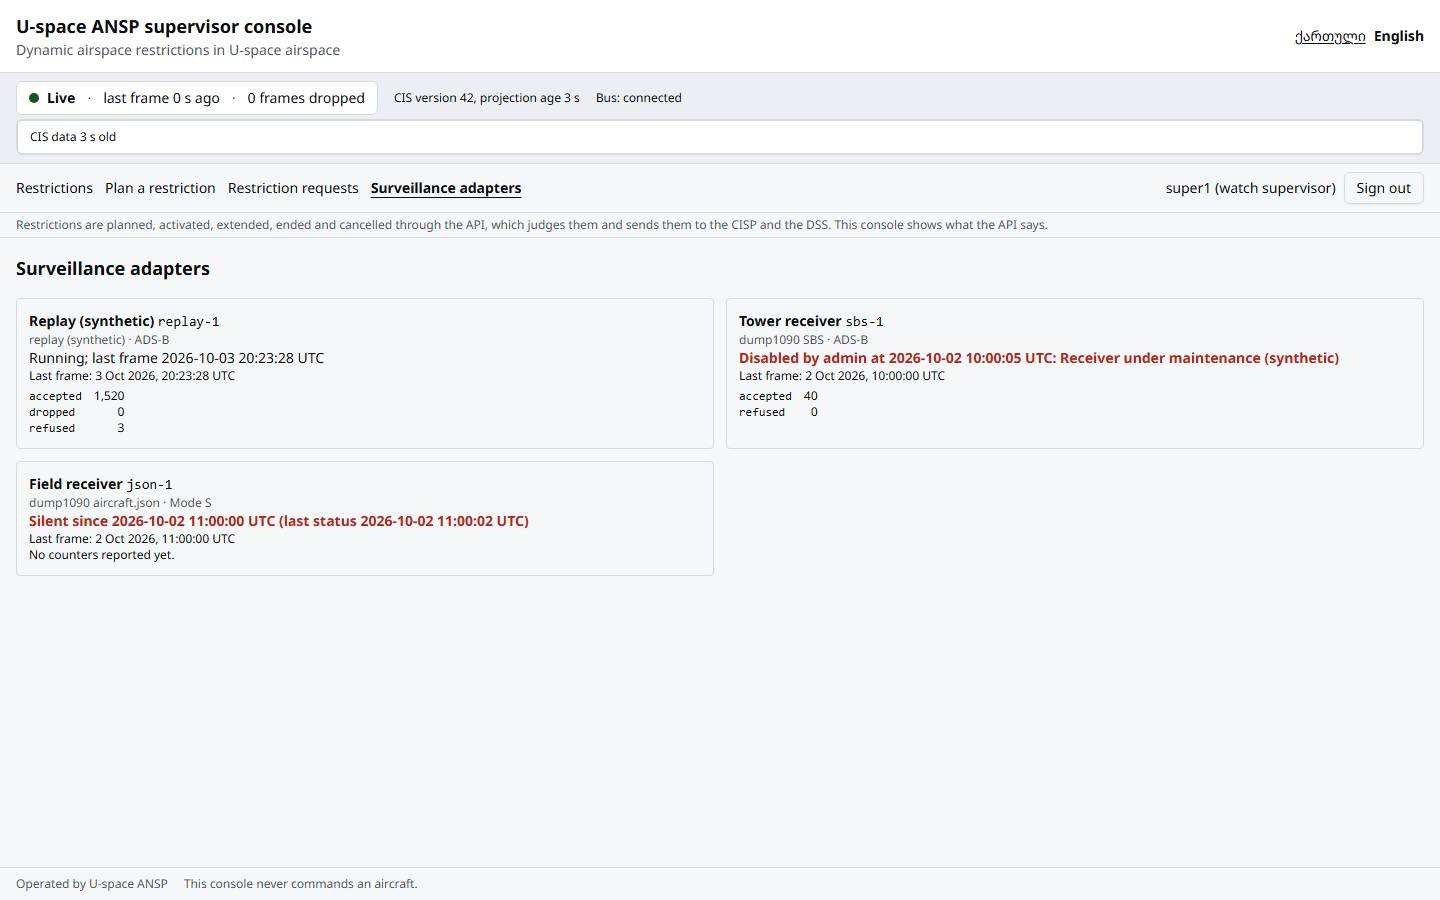
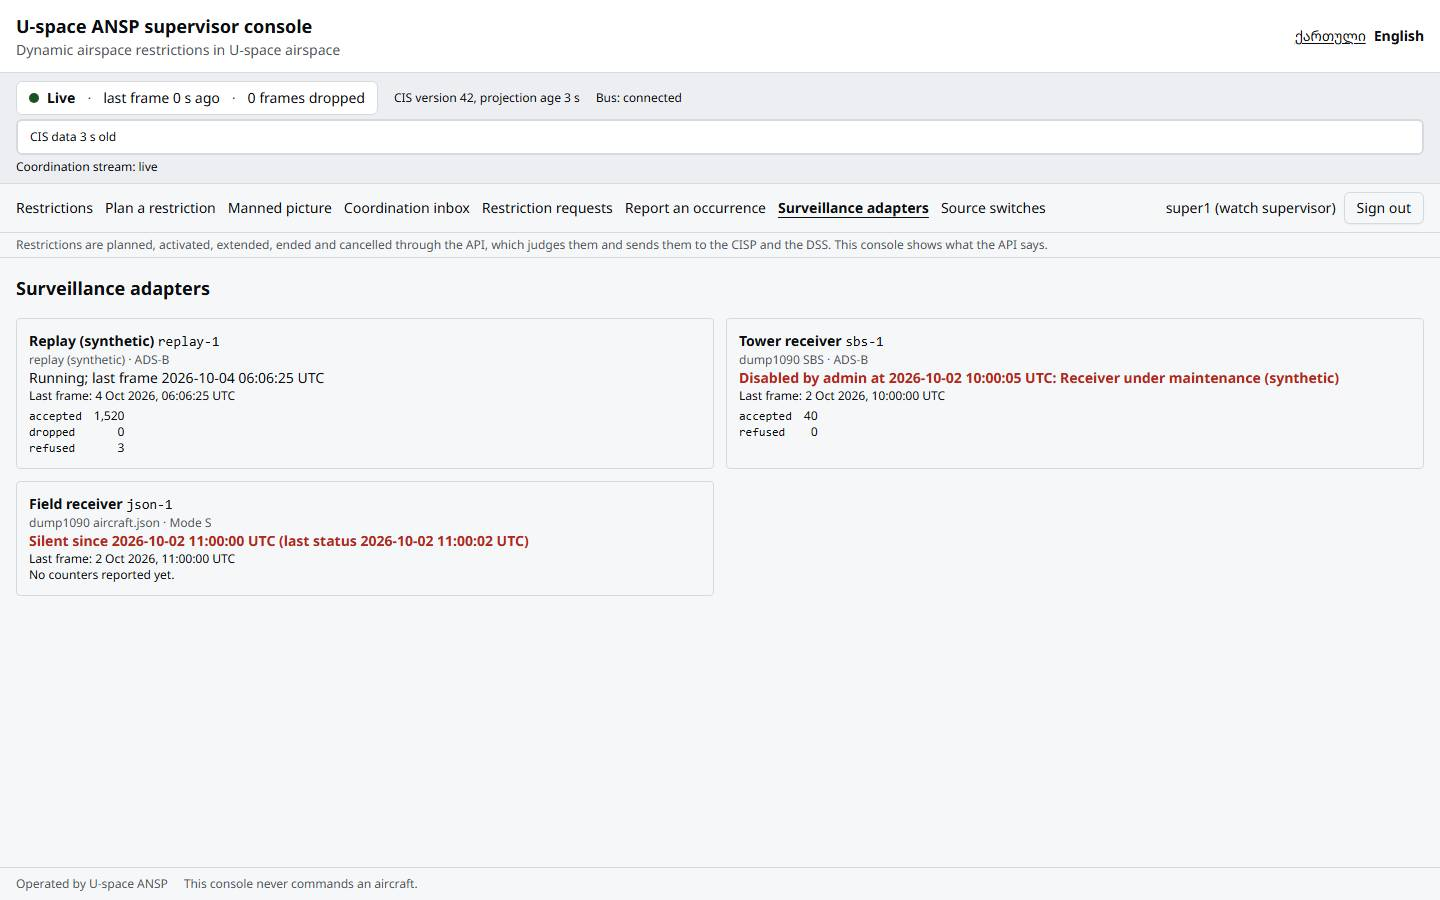
docs: describe the picture, the inbox and their gaps [WP-12 N-M2]
CHANGELOG line; web/README.md names the new pages, the three streams,
the BFF's paths and why the manned stream has its own client. PLAN
section 15 row 51: no kit release >= 0.3.0 exists, so the console
stays on the 0.1.0-rc.1 tarball with an app-level manned layer and
stream client on the kit's parts. Row 52: what the brief asks that the
contract lacks (no "all" layer, no reason on PolicyUpdate, no read of
one occurrence's delivery, no idempotency key on the occurrence, the
policy and audit operations answering 501 today). Screenshots of every
page in ka and en, the picture with a stale and a disabled aircraft.

Changed region(s): [[0.0, 0.1556, 0.75, 0.6533], [0.5, 0.3422, 0.9375, 0.4667], [0.8125, 0.1867, 1.0, 0.2489]]

diff --git a/web/README.md b/web/README.md
@@ -3,23 +3,32 @@
 Next.js (App Router, `output: 'standalone'`) on the shared kit
 [`uspace-ui`](https://github.com/rootxkit/uspace-ui), pinned to one
 GitHub Release tarball (`0.1.0-rc.1`). It plans, activates, extends,
-ends and cancels restrictions through the API and shows what the API
-says; it judges nothing: no geometry or geodesy library, no database, no
-NATS, no key (`docs/PLAN.md` D9; the lint rules in `eslint-rules/` and
-the bundle check enforce it). It never commands an aircraft.
+ends and cancels restrictions through the API, shows the manned traffic
+picture and the Annex V coordination inbox, and holds the source
+switches, the policy, the audit view and the occurrence report; it shows
+what the API and manned-feed say and judges nothing: no geometry or
+geodesy library, no database, no NATS, no key, no arithmetic on an
+altitude (`docs/PLAN.md` D9; the lint rules in `eslint-rules/`, the
+bundle check and `src/console/altitude.test.ts` enforce it). It never
+commands an aircraft.
 
 ```
 app/[locale]/login/            the sign-in with MFA (enrolment QR at a first sign-in)
 app/[locale]/(signed-in)/      restrictions, restrictions/new (the map editor),
-                               restrictions/<id>, requests, adapters
+                               restrictions/<id>, requests, adapters (WP-11);
+                               picture, inbox, occurrences/new, sources,
+                               policy, audit (WP-12)
 app/%5Fbff/                    the three BFF routes: /_bff/login, /_bff/logout, /_bff/api/*
 src/bff/handlers.ts            the BFF, on the kit's auth/server helpers
 src/api/                       generated types (uspace-ui-gen-api) and the typed client
-src/console/                   the pages, the status bar and their pure helpers
+src/console/                   the pages, the status bar and their pure helpers;
+                               manned.ts (the frame reducer), stream.ts (the
+                               manned stream client), inbox.ts, InboxProvider.tsx
 src/i18n/                      ka.json, en.json (every display string)
 eslint-rules/                  no-geometry-import, no-hardcoded-string, no-server-business-logic
 test/mock-api.mjs              the Playwright fixture server (stands in for Caddy and the API)
-test/e2e/                      the smoke run, and the screenshots run
+test/e2e/                      the smoke runs (smoke.spec.ts WP-11, console.spec.ts
+                               WP-12), and the screenshots run
 docs/screenshots/              every page in ka and en against the fixture server
 ```
 
@@ -66,14 +75,31 @@ The BFF is three routes and nothing else, on the kit's helpers:
 |---|---|
 | `POST /_bff/login` | `{username, password}` → `POST /v1/auth/login`; the API's challenge is sealed (AES-GCM under `WEB_MFA_CHALLENGE_SECRET`) into the `HttpOnly` `uspace_mfa` cookie (`Path=/_bff`) and the page gets `{status: "mfa_required", enrolment?}`. Then `{username, otp}` → `POST /v1/auth/mfa {mfa_token, code}`; its session sets `uspace_session` (`HttpOnly; Secure; SameSite=Strict`) and the readable `uspace_csrf`. The sign-in requires a same-origin `Origin`. |
 | `POST /_bff/logout` | the CSRF pair checked, `POST /v1/auth/logout` with the bearer, both cookies cleared whatever the API answers |
-| `/_bff/api/*` | the cookie forwarded as `Authorization: Bearer`; every unsafe method needs `X-CSRF-Token` equal to `uspace_csrf`; only `/v1/restrictions*`, `/v1/restriction-requests*`, `/v1/delivery-alarms*`, `/v1/adapters*`, `/v1/sources*` and `/v1/auth/me` are reached. An `Idempotency-Key` of the contract's shape is passed on `POST /v1/restrictions` (the kit forwards a fixed header list without it). |
+| `/_bff/api/*` | the cookie forwarded as `Authorization: Bearer`; every unsafe method needs `X-CSRF-Token` equal to `uspace_csrf`; only `/v1/restrictions*`, `/v1/restriction-requests*`, `/v1/delivery-alarms*`, `/v1/adapters*`, `/v1/sources*`, `/v1/coordination/inbox*`, `/v1/occurrences`, `/v1/policy`, `/v1/audit` and `/v1/auth/me` are reached (not the machine intake `/v1/coordination/notices`). An `Idempotency-Key` of the contract's shape is passed on `POST /v1/restrictions` (the kit forwards a fixed header list without it). |
 
 The BFF never verifies a token: the API decides every request. There is
-no ticket route: the restriction stream `WS /v1/restrictions/stream` is
-opened same-origin and the session cookie rides the upgrade (the API
-checks `Origin` against `ANSP_WS_ALLOWED_ORIGINS`); a `4401` close, like
-a `401` answer, is shown as "signed out, sign in again". The signed-in
-layout reads the cookie's claims without verification
+no ticket route: the three streams are opened same-origin and the
+session cookie rides the upgrade (`Origin` is checked against the
+allow-list): `WS /v1/restrictions/stream` and `WS
+/v1/coordination/stream` on api, shared by every signed-in page (the
+status bar says whether each is live and how many notices are escalated
+or awaiting), and `WS /v1/manned-traffic/stream` on manned-feed, opened
+by the picture page with `console/subscribe/v1 {bbox, layers:
+[manned]}` from the kit's bbox hook. A `4401` close of any of them, like
+a `401` answer, is shown as "signed out, sign in again".
+
+The manned stream runs on `src/console/stream.ts`, not the kit's
+`useFeed`: the kit `0.1.0-rc.1` passes on neither the status frame's
+`adapters[]` nor the members of a manned aircraft the picture needs
+(`docs/PLAN.md` section 15 row 51). It reuses the kit's URL rule, frame
+and status parsers and reconnect backoff. The picture keeps each
+aircraft's last sample by `icao24`: an older sample is dropped and
+counted, the feed's ageing (stale, source_disabled) at the sample's own
+instant is applied, an aircraft the feed still calls live is drawn stale
+once its age reaches the status frame's `stale_after_s`, and nothing is
+aged before a valid status frame gives that threshold.
+
+The signed-in layout reads the cookie's claims without verification
 (`sessionDisplay`, display only) and `GET /v1/auth/me` for the account.
 
 ## Running against compose

diff --git a/docs/PLAN.md b/docs/PLAN.md
@@ -736,6 +736,8 @@ the policy answer.
 | 48 | A circle restriction is a Point with `radius_m`; the API sends no outline of it, and drawing one in `web/` would be geodesy (T12). | WP-11: the map draws a circle as its centre and says so beside the map; the detail page names the radius. A display outline from the API (as the CISP's `cis_display_geometry`, made with uspace-core) would let the kit draw it. | **open**, for WP-5's owner |
 | 49 | What the kit `0.1.0-rc.1` does not do that WP-11 needed. | WP-11 (decided in code): (1) the BFF's proxy forwards a fixed header list without `Idempotency-Key`, which `POST /v1/restrictions` requires; `src/bff/handlers.ts` adds a key of the contract's shape to that one operation through the kit's own `forward` (tested both ways); the kit should forward it. (2) The kit's `LoginForm` shows the enrolment key but not a QR code of the `otpauth` URI; the sign-in page is its own form on the same `/_bff/login` route and bodies, with a QR code (`uqr`). (3) The kit's `/_bff/login` carries both sign-in steps (`{username, password}`, then `{username, otp}`), so there is no separate `/_bff/mfa` route (the brief's list; the kit has three routes, M22). (4) The kit's confirmation text "records this with your name" is overridden in the app's catalogue: this API records the role, never a name. (5) The kit's live client does not hand the snapshot's `restrictions` extras to the app; the list is read again over REST whenever the stream comes back live. | **decided** (WP-11); (1), (2) and (5) are open for the kit (uspace-ui) |
 | 50 | The WP-11 brief says to install the kit from npmjs only; the kit is published as GitHub Release tarballs (the owner's choice of 2026-10-02, kit PLAN D10) and is not on npmjs. | WP-11: `@rootxkit/uspace-ui` is pinned to the release asset URL of `v0.1.0-rc.1` with its integrity in `pnpm-lock.yaml` (`--frozen-lockfile` refuses changed bytes), as uspace-cisp's `web/`; never a `github:` spec or a branch. Moving to `0.1.0` (and to npmjs, if the kit ever publishes there) is a `build:` commit that bumps the URL and the lockfile. | **decided** (owner, 2026-10-02) |
+| 51 | The WP-12 brief asks to bump `@rootxkit/uspace-ui` to `>= 0.3.0` (`MannedLayer`, `alerts`) in a `build:` commit first, but the kit has released only `v0.1.0-rc.1` (2026-10-04: `MannedLayer`, `IntentLayer` and `alerts` are merged on its `main` under "Unreleased", with `package.json` still `0.1.0-rc.1`), and row 50 pins this console to a release tarball. | WP-12 (decided in code): no bump; the console stays on the `v0.1.0-rc.1` tarball. (1) The manned layer is the app's (`src/console/MannedLayer.tsx`) on the kit's `useLayer`, `putTrackIcons`, `trackIconId("surveillance")`, `trackIconParts` and tokens; the aircraft list beside the map draws the same symbol. (2) The kit's live client hands the app neither the status frame's `adapters[]` (it parses only its own extras) nor a snapshot item it has no store for, and its `MannedView` has no `state`, `relevant` or `source_instance`; the manned stream therefore runs on a small client (`src/console/stream.ts`) that reuses the kit's `resolveFeedUrl`, `parseFrameText`, `parseStatusBody` (a refused status frame changes nothing, no threshold is filled in), `reconnectDelayMs` and `CLOSE_UNAUTHORIZED`; the coordination stream stays on the kit's `useFeed` and reads the inbox again over REST whenever it comes back (row 49 (5)). When a kit release carries `MannedLayer` and a manned store with those members, a `build:` commit bumps the tarball and replaces (1) and (2). | **open**, for the kit (a release) |
+| 52 | What the WP-12 brief asks that the contract does not carry. | WP-12 (decided in code, nothing invented): (1) the brief's `console/subscribe/v1 {layers: ["manned", "all"]}`: the pinned schema and `feed.DecodeSubscribe` refuse `all` (row 33), so the console sends `["manned"]` and, as a session, is served every aircraft flagged `relevant`. (2) "Change with reason" on the policy: `PolicyUpdate` has no reason member; the page asks for none and says that the audit records who and when. (3) The occurrence's "delivery state": the contract has no read of one report (`POST /v1/occurrences` answers `202 {id, report_ref, state: queued, deadline_at}` only); the page shows that receipt and the open `occurrence_undelivered` alarms of `GET /v1/delivery-alarms`. (4) `POST /v1/occurrences` takes no `Idempotency-Key`: a send that got no answer (or the BFF's 502/504) may have queued the report, so the form says the outcome is unknown and sends again only when the supervisor ticks that they checked; a refusal with a problem may be corrected and sent. (5) `GET /v1/policy`, `PUT /v1/policy` and `GET /v1/audit` answer `501 not_implemented` from `api` today; the pages show the API's answer as it is ("the API does not serve this operation yet"). A `reason` on `PolicyUpdate`, an `Idempotency-Key` on the occurrence and `GET /v1/occurrences/{id}` are additive within `/v1`. | **open**, for the contract owner |
 
 Cross-cutting decisions this plan also follows without a row of its
 own: the JWT claim table (M18, M20, M24: `aud` = target host,

diff --git a/CHANGELOG.md b/CHANGELOG.md
@@ -217,3 +217,20 @@ additively within `/v1`. One line per work package.
   catalogues, the lint rules against a geometry import, a hard-coded
   string and server code outside the BFF, vitest, a Playwright smoke run
   against a fixture API, the web image's Dockerfile and the `web` CI job.
+- WP-12 console-picture-inbox: the manned picture on
+  `/v1/manned-traffic/stream` (every aircraft at its last position with
+  its age, live, stale, source disabled by whom or delivered late,
+  relevant ones apart; both altitudes as sent with their datum, and a
+  vitest guard that fails the build on altitude arithmetic in the
+  browser) with the stream's own status bar (adapters, degraded,
+  dropped frames, CIS age, policy version and thresholds from the
+  frame; "no aircraft reported; adapters: ..." when empty); the
+  coordination inbox live on `/v1/coordination/stream` (escalated first
+  and loudest on every page, acknowledgement with a note, a 409 said
+  and not retried, an opt-in browser notification per escalation);
+  source switches (admin; the API's 503 shown as said, no control for
+  other roles), the policy row with its history from the audit log, the
+  audit view with a JSON export carrying the chain hashes, and the
+  occurrence report form (protected reporter reference, 72 h deadline,
+  no resend without an answer). Kit stays at `0.1.0-rc.1`: no `0.3.0`
+  is released (PLAN section 15 rows 51 and 52).
